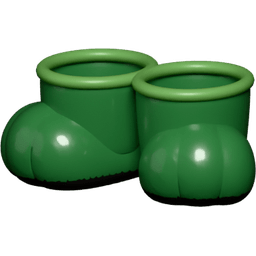
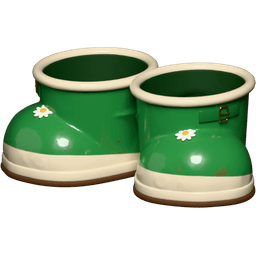
Rabi'yi Giydir: eşyalar baştan, gölgeli katmanlar, yükleme düzeltmesi
- Kep: dokulu kumaş, biye, kulak yuvaları, bükülü ip, iplik püskül, "2027"
  hatırası. Gözlük: kaplumbağa kabuğu çerçeve, kenarda yansıyan cam.
  Bot: tek parça kalıp, krem taban ve burun, papatya, tokalı kayış.
- Eşyanın kafaya/yere düşürdüğü gölge katmana gömülü; Rabi'nin yer
  gölgesi ayak altında temas gölgesine kırpıldı.
- Katmanlar önceden yükleniyor ve yığın birlikte beliriyor (kep havada
  asılı kalmıyor); eşya kaymadan, yalnız solarak geliyor.
- Koyu temada eşya ikonuna hafif kenar ışığı (`--esya-hale`).

diff --git a/components/ekranlar/rabi-giydir.tsx b/components/ekranlar/rabi-giydir.tsx
@@ -1,10 +1,11 @@
 'use client'
 
-import { useState } from 'react'
+import { useEffect, useState } from 'react'
 import { Check, Footprints, Glasses, GraduationCap, type LucideIcon } from 'lucide-react'
 import { BaslikSatiri, Kart, kartGirisi } from '@/components/ui'
 import { cn } from '@/lib/utils'
 import {
+  CIPLAK_RABI,
   ESYALAR,
   dokun,
   giyiliMi,
@@ -35,6 +36,7 @@ export function RabiGiydirEkrani({
   setGiyilenler: (guncelle: (onceki: Giyilenler) => Giyilenler) => void
 }) {
   const katmanListesi = katmanlar(giyilenler)
+  const hazir = useGorselleriOnYukle()
 
   return (
     <div>
@@ -46,7 +48,12 @@ export function RabiGiydirEkrani({
         birbirinden kaymadan otursun; hepsi aynı boyda `absolute inset-0`.
       */}
       <Kart className="mb-4 p-3">
-        <div className="relative mx-auto aspect-[9/11] w-full max-w-[19rem]">
+        <div
+          className={cn(
+            'relative mx-auto aspect-[9/11] w-full max-w-[19rem] transition-opacity duration-200 motion-reduce:transition-none',
+            hazir ? 'opacity-100' : 'opacity-0',
+          )}
+        >
           {katmanListesi.map((src, sira) => (
             <Katman key={src} src={src} ilk={sira === 0} />
           ))}
@@ -71,12 +78,41 @@ export function RabiGiydirEkrani({
 }
 
 /**
+ * Çıplak Rabi ve bütün eşya görsellerini ekran açılınca yükler; hepsi bitince
+ * (yüklenemeyen de sayılır, yığını sonsuza dek bekletmesin) `true` döner.
+ * Katmanlar ayrı ayrı belirirse büyük Rabi gelmeden kep havada asılı kalıyordu;
+ * sonradan giyilen eşya da önceden yüklendiği için hemen geliyor.
+ */
+function useGorselleriOnYukle(): boolean {
+  const [hazir, setHazir] = useState(false)
+  useEffect(() => {
+    const dosyalar = [CIPLAK_RABI, ...ESYALAR.map((e) => e.gorsel)]
+    let kalan = dosyalar.length
+    let iptal = false
+    const bitti = () => {
+      kalan -= 1
+      if (kalan === 0 && !iptal) setHazir(true)
+    }
+    for (const dosya of dosyalar) {
+      const img = new Image()
+      img.onload = bitti
+      img.onerror = bitti
+      img.src = dosya
+    }
+    return () => {
+      iptal = true
+    }
+  }, [])
+  return hazir
+}
+
+/**
  * Tek katman. Dosya yoksa görünmez olur: eşya görseli henüz konmamışken
  * önizlemenin ortasında kırık görsel simgesi durmasın.
  *
- * Eşya katmanı `acilir-giris` ile hafifçe yerine iner; `key` dosya yolu
- * olduğu için yalnız yeni giyilen katman oynar, ötekiler yerinde kalır.
- * Çıplak Rabi oynamaz — her açılışta zıplayan bir tavşan gürültü olurdu.
+ * Eşya katmanı yalnız opaklıkla gelir (`esya-solma`); `acilir-giris` gibi
+ * konum oynatsaydı kep/gözlük/bot 200 ms vücuttan ayrık dururdu. `key` dosya
+ * yolu olduğu için yalnız yeni giyilen katman oynar. Çıplak Rabi oynamaz.
  */
 function Katman({ src, ilk }: { src: string; ilk: boolean }) {
   const [yok, setYok] = useState(false)
@@ -91,7 +127,7 @@ function Katman({ src, ilk }: { src: string; ilk: boolean }) {
       loading="eager"
       decoding="async"
       onError={() => setYok(true)}
-      className={cn('pointer-events-none absolute inset-0 size-full object-contain', !ilk && 'acilir-giris')}
+      className={cn('pointer-events-none absolute inset-0 size-full object-contain', !ilk && 'esya-solma')}
     />
   )
 }
@@ -140,7 +176,7 @@ function EsyaKarti({
             aria-hidden
             draggable={false}
             onError={() => setIkonYok(true)}
-            className="size-[85%] object-contain"
+            className="esya-ikon size-[85%] object-contain"
           />
         )}
       </span>

diff --git a/app/globals.css b/app/globals.css
@@ -298,6 +298,9 @@ body {
   /* Maskotun arkasındaki yumuşak ışık (Hızlı Kontrol, Kısa Mola). */
   --maskot-hale: rgba(255, 255, 255, 0.9);
   --maskot-hale-dis: rgba(255, 255, 255, 0);
+  /* Rabi'yi Giydir: eşya ikonunun kenar ışığı. Açıkta gerek yok; koyuda kahve
+     gözlük çerçevesi koyu karede kayboluyordu. */
+  --esya-hale: rgba(255, 255, 255, 0);
   /* Konu destesi zeminindeki nokta dokusu. */
   --nokta-desen: rgba(24, 23, 22, 0.07);
 
@@ -567,6 +570,7 @@ body {
   --yuzey-saydam: rgb(255 245 235 / 0.08);
   --maskot-hale: rgba(255, 238, 220, 0.1);
   --maskot-hale-dis: rgba(255, 238, 220, 0);
+  --esya-hale: rgba(255, 240, 225, 0.55);
   --nokta-desen: rgba(255, 245, 235, 0.06);
 
   --shadow-kart: 0 6px 20px rgba(0, 0, 0, 0.32);
@@ -2552,6 +2556,29 @@ body {
      dolgu animasyon bittikten sonra da yığın/kapsayıcı bağlamını koruyup
      katmanı ekran yerine bu satıra bağlardı. */
   animation: acilirGiris 200ms cubic-bezier(0.2, 0.7, 0.3, 1) backwards;
+}
+
+/*
+  Rabi'yi Giydir: giyilen eşya katmanı yalnız opaklıkla gelir. `acilir-giris`
+  gibi kayarsa eşya 200 ms vücuttan ayrık durur; konum hiç oynamamalı.
+*/
+@keyframes esyaSolma {
+  from { opacity: 0; }
+  to { opacity: 1; }
+}
+
+.esya-solma {
+  animation: esyaSolma 180ms ease-out backwards;
+}
+
+.esya-ikon {
+  filter: drop-shadow(0 0 2px var(--esya-hale)) drop-shadow(0 0 1px var(--esya-hale));
+}
+
+@media (prefers-reduced-motion: reduce) {
+  .esya-solma {
+    animation: none;
+  }
 }
 
 @media (prefers-reduced-motion: reduce) {

diff --git a/docs/kurallar/maskot-ve-ikon.md b/docs/kurallar/maskot-ve-ikon.md
@@ -94,12 +94,20 @@ Rabi proje kurallarının bir parçası — dizin ve genel kurallar: [AGENTS.md]
 
 - Ekran `components/ekranlar/rabi-giydir.tsx`, kurallar `lib/giydir.ts`, kayıt
   `rabi-giydir`. Kaynak model Blender'da (`rabi8_iskelet.blend` + eşyalar,
-  `rabi_giydir.blend`; depoda değil, `Desktop\rabi_tavsan_model`).
+  `rabi_giydir2.blend`, kurulum ve render betikleri `giydir-betikleri/`; depoda
+  değil, `Desktop\rabi_tavsan_model`).
 - Görseller `public/giydir/`: `rabi.png` + eşya başına tam tuval katman (900×1100,
   **aynı kamera**) ve 256'lık `-ikon.png`. Eşya katmanı Rabi "holdout" iken render
   alınır: Rabi görünmez ama önünde kaldığı yerde eşyayı keser, böylece katmanlar
   üst üste konunca kulak kepin içinden, sap başın arkasından geçer. Kamerayı ya da
   tuvali değiştirirsen **bütün** katmanlar yeniden alınır; tek katman ayrışırsa kayar.
+- **Gölge katmanın içinde.** Eşyanın kafaya/yere düşürdüğü gölge, eşya kameraya
+  görünmezken alınan render'ın çıplak Rabi'ye oranından (`1 − B/A`) çıkar ve eşya
+  katmanının altına yarı saydam siyah olarak gömülür; gölgesiz eşya yapıştırılmış
+  gibi duruyordu. Yer gölgesi ayağın altında elipse kırpılır: anahtar ışık gölgeyi
+  sola uzun bir kama gibi atıyor, kartın köşesini karartıyordu.
+- Gözlük camı yalnız kenarda yansır: beyaz dünyayı yansıtan cam gözlerin üstünde
+  süt gibi bir tabaka bırakıyordu.
 - Paletli PNG (maskot pozlarıyla aynı). Yeni eşya = Blender'da kemiğe bağlı nesne +
   aynı kamerayla katman + `ESYALAR`a satır; aynı yuvaya ikinci eşya ötekini çıkarır.
 - Eşyalar ücretsiz, para birimi yok (kullanıcı denemek için istedi, 2026-10-30).
